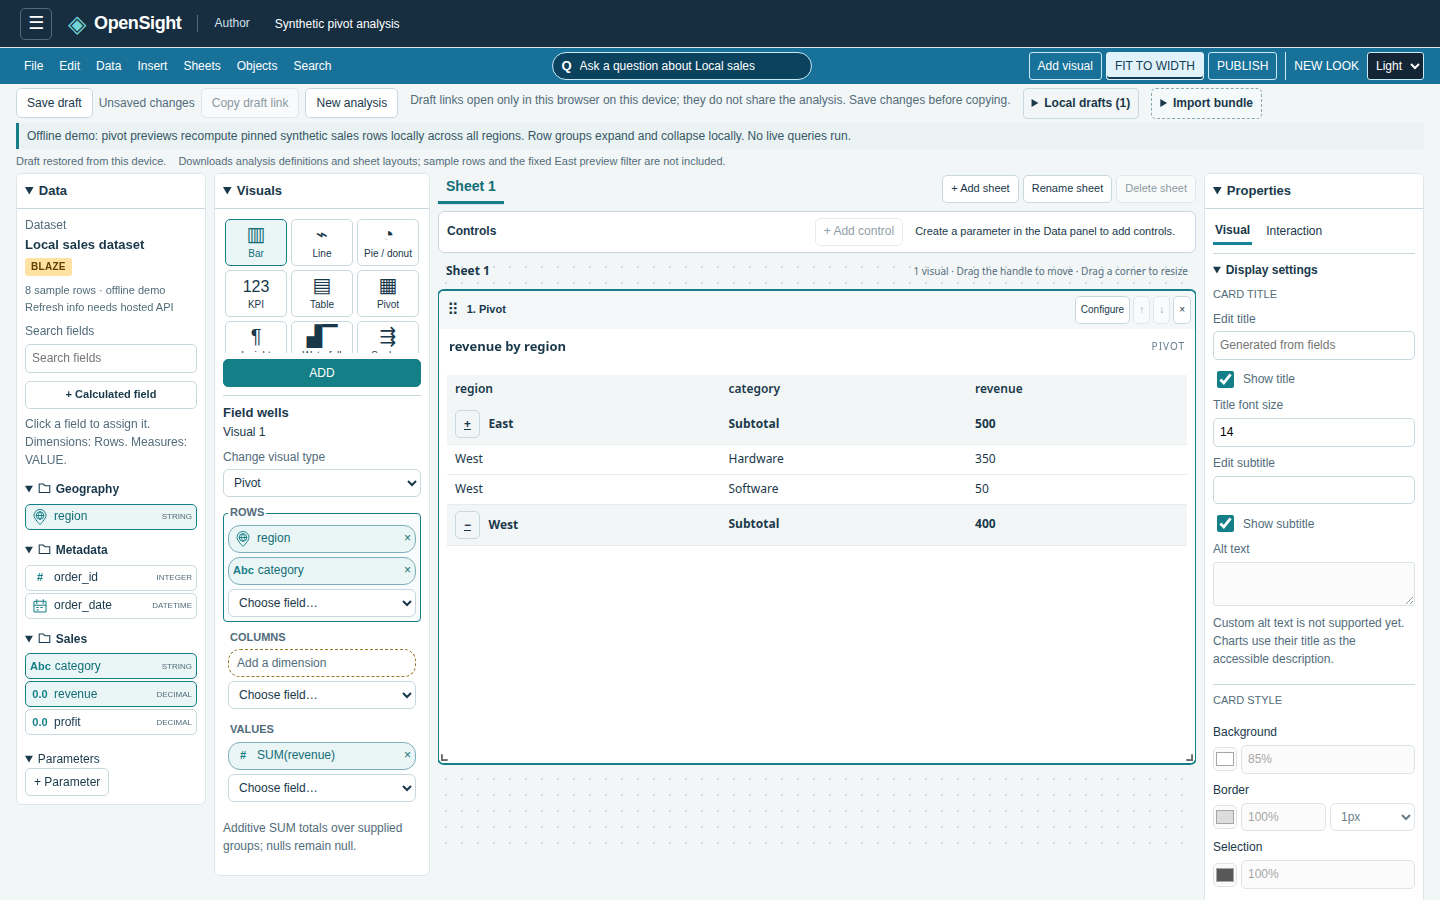
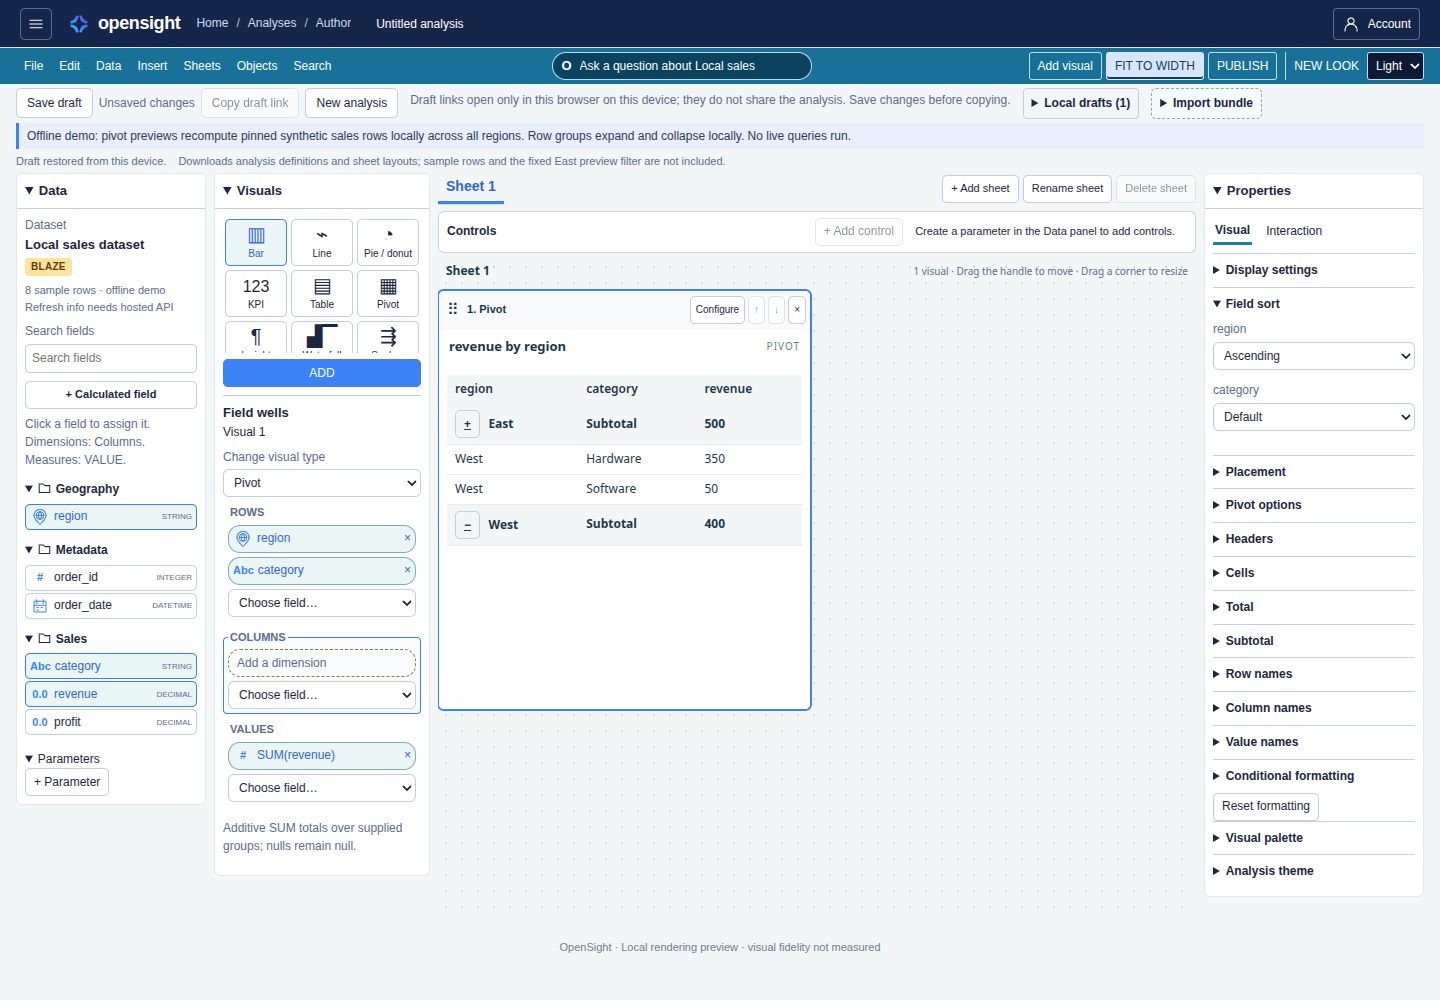
Parity pivot field sort: 9. Rebuild demo capture UI and record full verification

diff --git a/docs/parity-pivot-field-sort-gap-notes.md b/docs/parity-pivot-field-sort-gap-notes.md
@@ -1,0 +1,132 @@
+# Pivot field sorting: verification and captures
+
+## Implementation checks
+
+Pivot parsing admits only flat `fieldSortOptions` entries. The native converter
+maps `FieldSortOptions`, `FieldId` and `SortDirection` without a `FieldSort`
+wrapper. The existing shared comparator orders sibling groups within each
+requested axis level. The aggregation and matching path is unchanged.
+
+Forty-eight full-output SHA-256 baselines were captured before implementation
+from `809591f0`. They include function source and all 16 row/column total and
+subtotal combinations with populated, empty and unavailable rows. All match.
+Tests compare every detail, subtotal and total cell by identity across sorted
+and unsorted output, including both measures.
+
+Import requires explicit valid directions and bound dimension IDs matching the
+corresponding draft column names. No export-time ID rewrite was added. Invalid
+entries retain diagnostics and export verbatim. The existing bundle-envelope
+validator rejects non-object outer sort configurations before visual import.
+
+Independent review found that visual/sheet dataset remapping can remove a
+dimension before the ordinary reducer cleanup. Remapping now shares the same
+pivot-sort cleanup; the focused regression covers both remap actions and a
+subsequent draft-storage round-trip.
+
+The new Properties labels share field display names with the existing name
+editors. The Properties regression helper now identifies the requested control
+type as well as its label, and its expected section order includes Field sort.
+
+## Focused verification and demo
+
+Strict TypeScript passed. The focused pivot/table run passed **122 passed /
+0 failed / 0 skipped**, including **87 new pivot tests**. The broader compiler,
+authoring, bundle, converter, Properties and pivot regression run passed
+**324 passed / 0 failed / 0 skipped**. Logs:
+
+- `/tmp/opensight-pivot-field-sort-focused.log`
+- `/tmp/opensight-pivot-field-sort-regression.log`
+
+`npm run build:demo --workspace @opensight/web` passed, including strict
+TypeScript and embed builds. The requested
+`node ~/workspace/goals/opensight/hidden_files/build-demo-shim.mjs` also passed,
+updating the local demo artifact (2,505,545 characters including the existing
+mock API shim). Build log: `/tmp/opensight-pivot-field-sort-demo-build.log`.
+
+## Offline captures and reference comparison
+
+`packages/web/scripts/capture-pivot-field-sort.mjs` passed with **zero page
+errors and zero external requests**. It loads the freshly built static demo
+from `file://` and blocks all external HTTP/HTTPS. Capture command:
+
+```sh
+OPENSIGHT_CHROMIUM="$HOME/.cache/ms-playwright/chromium_headless_shell-1243/chrome-headless-shell-linux64/chrome-headless-shell" node packages/web/scripts/capture-pivot-field-sort.mjs
+```
+
+The process sandbox prevents Chromium startup; captures used the installed
+Playwright shell outside it. Both 1440×1000 themes have 12px Arial controls
+and no horizontal page overflow. Browser acceptance verifies independent row
+and column sorts, ascending/descending/default selections, save/reload and
+sorted-field removal. The sample changes East → West to West → East, and
+Hardware → Software to Software → Hardware, with cell values moving intact.
+
+Captures and machine-readable acceptance live under
+`.opensight/parity-pivot-field-sort/browser/`: `pivot-none.png`,
+`pivot-descending-light.png`, `pivot-descending-dark.png`, `pivot-readme.png`
+and `acceptance.json`. Log: `/tmp/opensight-pivot-field-sort-capture.log`.
+Review copies: [light](images/parity-pivot-field-sort-light.png) and
+[dark](images/parity-pivot-field-sort-dark.png).
+
+Compared visually with local `qs-2026/qs-properties-group-color.jpg` and
+`qs-2026/qs-properties-display-settings.jpg`: Data → Visuals → canvas order,
+docked Properties, compact headings and predictable section disclosures remain
+intact. Both field selects are legible in light and dark chrome. The pivot
+surface retains its independent analysis theme. The narrow default card,
+large visual gallery and explanatory offline chrome remain existing differences
+for future UI parity work. There is no dedicated pivot-sort reference in the
+supplied set; visual fidelity remains unmeasured. No GitHub issue was filed:
+this is an explicitly offline phase-plan fallback with no associated issue.
+
+The README pivot screenshot is refreshed, retaining the collapsed East group
+example while showing Field sort. The hero GIF was regenerated from the newly
+rebuilt demo using `~/workspace/tools/screenshots/readme-gif.mjs` and its ffmpeg
+palette/assembly commands. The original hard-coded Chromium failed to launch;
+a temporary copy at `/tmp/opensight-pivot-field-sort-readme.mjs` uses the installed
+Playwright shell and the repo's current `navigate` helper in place of the removed
+source-picker control. The query explicitly requests `sum revenue by region` so the current interpreter
+does not need to ask for an aggregation. All HTTP/HTTPS is blocked; 27 frames completed with zero
+page errors. Frames: `/tmp/opensight-pivot-field-sort-hero-final/frames/`; log:
+`/tmp/opensight-pivot-field-sort-readme.log`.
+
+The rebuilt demo is a local static artifact, not a deployed server. No new
+dependencies, AWS calls, deployment, merge or push are part of this slice.
+`SOLUTION_DESIGN.md` remains unchanged.
+
+## Full root verification
+
+```sh
+OPENSIGHT_CHROMIUM="$HOME/.cache/ms-playwright/chromium_headless_shell-1243/chrome-headless-shell-linux64/chrome-headless-shell" TZ=UTC npm test
+```
+
+The final complete run exited **0**: **5,960 passed / 0 failed / 37 skipped**
+(**5,997 tests**, no cancellations or todos). All skips require live PostgreSQL:
+35 in API and 2 in query engine. All 3,000 web tests passed, including the 87 new
+pivot-field-sort cases.
+
+| Runner | Passed | Failed | Skipped |
+| --- | ---: | ---: | ---: |
+| API | 1,500 | 0 | 35 |
+| Bundle parser | 213 | 0 | 0 |
+| CLI | 73 | 0 | 0 |
+| Embedding SDK | 10 | 0 | 0 |
+| Headless SDK | 28 | 0 | 0 |
+| Python SDK | 32 | 0 | 0 |
+| MCP server | 74 | 0 | 0 |
+| O interpreter | 42 | 0 | 0 |
+| Parity | 11 | 0 | 0 |
+| Query engine | 867 | 0 | 2 |
+| Web | 3,000 | 0 | 0 |
+| Root checks | 110 | 0 | 0 |
+| **Total** | **5,960** | **0** | **37** |
+
+Full log: `/tmp/opensight-pivot-field-sort-root.log`; exit status:
+`/tmp/opensight-pivot-field-sort-root.exit`; machine-readable totals:
+`/tmp/opensight-pivot-field-sort-test-counts.json`.
+
+The first session ended with signal 143 during compilation; its log is
+`/tmp/opensight-pivot-field-sort-root-interrupted.log`. An intermediate run was
+stopped to add the independently identified remap cleanup regression; its log is
+`/tmp/opensight-pivot-field-sort-root-pre-remap-review.log`. Neither partial run
+contributes to the counts. The final unchanged root command ran to completion
+in a persistent local process outside the process sandbox, with the installed
+Chromium shell. No test was removed, weakened or skipped to bypass the environment.

diff --git a/docs/parity-pivot-field-sort.md b/docs/parity-pivot-field-sort.md
@@ -50,6 +50,7 @@ preserve the last valid state.
 Draft `pivotFieldSorts` stores unique `{fieldId, direction}` entries. Storage and
 the reducer validate the structure, direction and dimension membership. Removing
 a sorted field clears only that entry; moving it between the two axes keeps it.
+Dataset remapping also clears entries whose dimensions leave the wells.
 Changing away from pivot clears the pivot sorts. Authored pivots serialize this
 state only as `fieldSortOptions`; other kinds never emit it.
 
@@ -75,3 +76,5 @@ and subtotal combination, authoring/storage, native/bundle round-trips, import
 retention and Properties controls. Forty-eight full-output SHA-256 baselines
 were captured from `809591f0` before compiler changes, including function source,
 for populated, empty and unavailable rows across all total/subtotal combinations.
+
+See [verification and captures](parity-pivot-field-sort-gap-notes.md).
